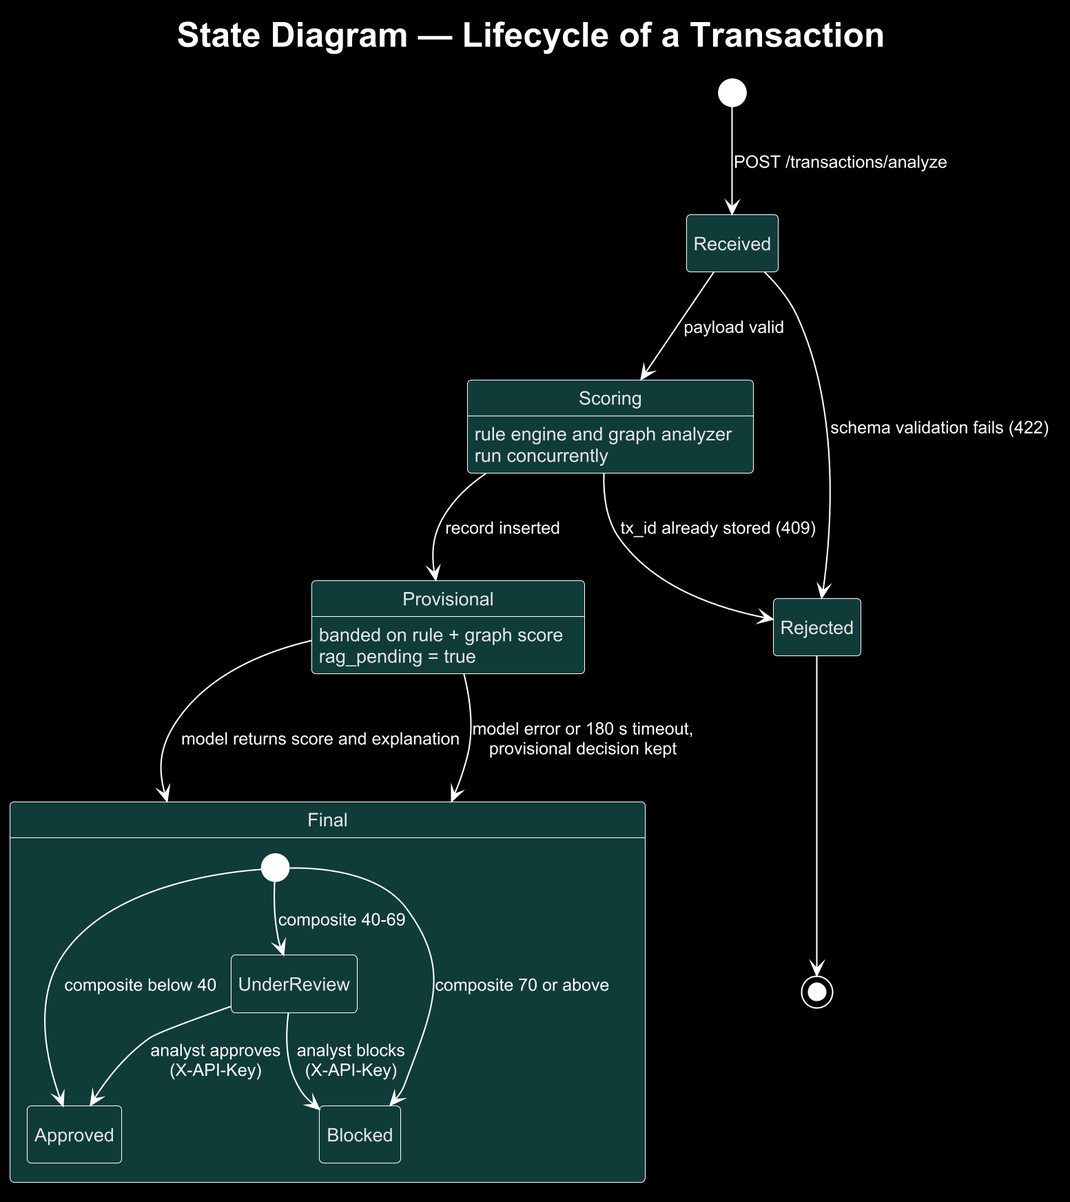
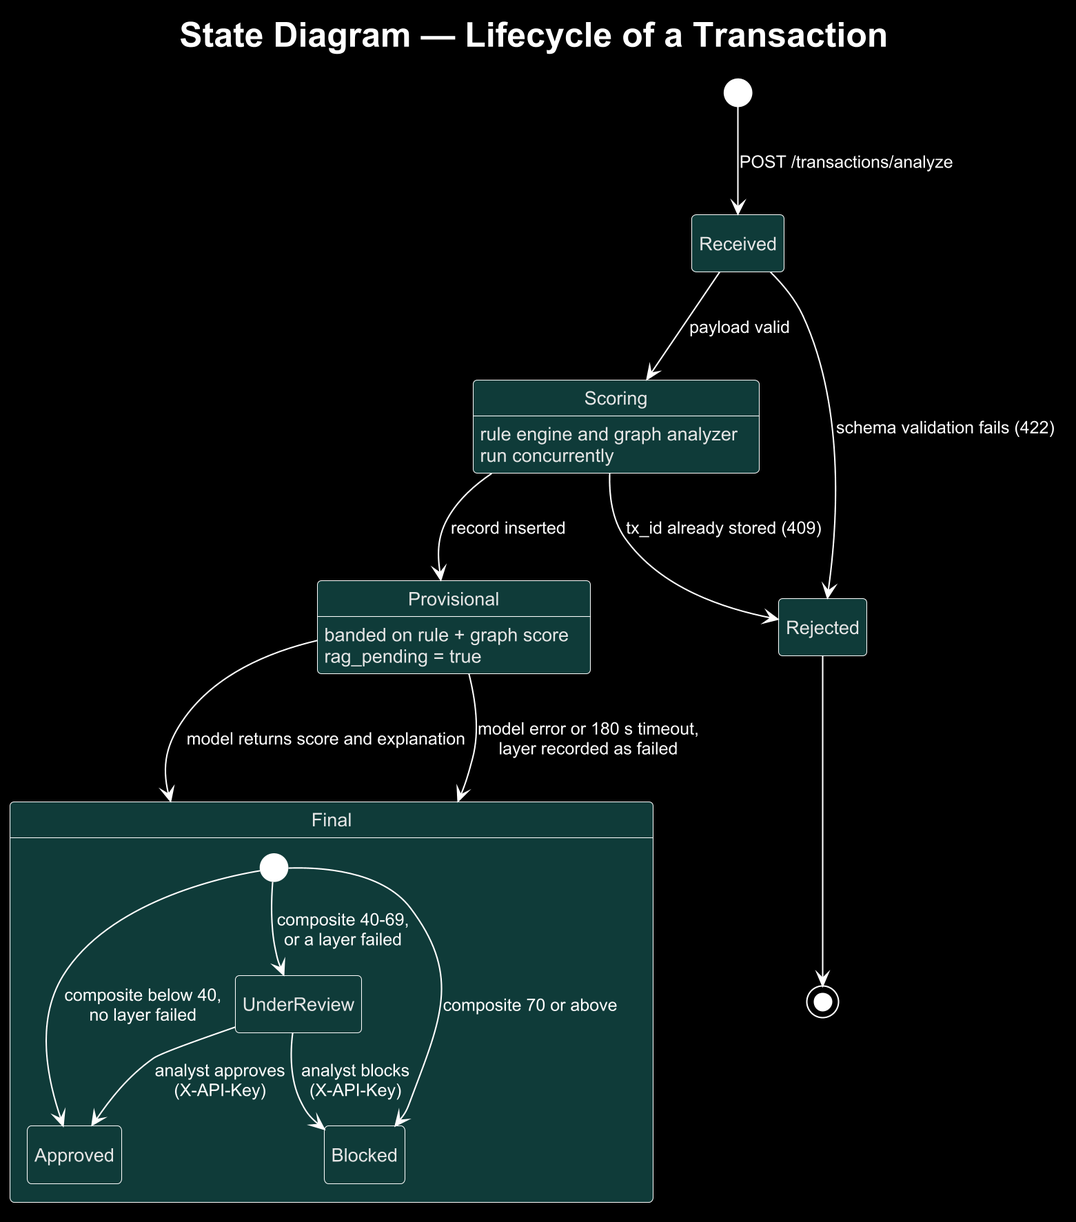
Document layer failure handling and component restart in the SRS and report
SRS: FR-33 (a failed layer is named, recorded and sends an approval to
review), FR-34 (component status and restart), FR-35 (dashboard failure
panel); FR-9 and FR-29, the reliability requirement and the security
requirement updated to match. The last functional-requirements table
grew past a page, so it is split into accounts/graph/reporting/operations
and dashboard/security/resilience.

Report: the decision rule after Equation 3.4, Algorithm 1's timeout
branch, the security, assumption, module and integration sections, the
safety and deployment-risk entries, the error analysis and the test
appendix. Figure 4.4 recaptured with all 16 routes.

The sequence, state, activity and component diagrams no longer say a
model timeout keeps the provisional decision.

diff --git a/docs/build_report.py b/docs/build_report.py
@@ -680,7 +680,7 @@ bullets([
     "time from 260 ms to about 20 ms.",
     "An evaluation harness that replays a labelled dataset through the live API, sweeps the "
     "decision thresholds and reports precision at a realistic fraud prevalence.",
-    "An analyst dashboard and a one-command local stack, with 41 automated tests run in "
+    "An analyst dashboard and a one-command local stack, with 53 automated tests run in "
     "continuous integration.",
 ])
 section("1.8 Report Organization")
@@ -848,14 +848,18 @@ output: provisional decision, returned to the caller
 1  sender, receiver <- load_profile(tx.sender), load_profile(tx.receiver)
 2  (R, rule_flags), (G, graph_flags) <- in parallel:
        rule_engine(tx, sender, receiver), graph_analyzer(tx)
-3  S <- min(R + G, 100);  decision <- band(S)
+3  S <- min(R + G, 100);  decision <- band(S, failed layers)
 4  insert record(tx, S, decision, rag_pending = true)     # 409 if tx_id exists
 5  schedule background (4 at a time, 180 s limit):
 6      (L, text) <- rag_pipeline(tx, sender, rule_flags + graph_flags)
-7      S <- min(R + G + L, 100);  decision <- band(S)
+           on error or timeout: L <- 0, language model marked failed
+7      S <- min(R + G + L, 100);  decision <- band(S, failed layers)
 8      if flags fired and text names none of them: text <- flag list only
-9      update record(S, decision, text, rag_pending = false)
-10 return decision, S, flags""")
+9      update record(S, decision, text, failed layers, rag_pending = false)
+10 return decision, S, flags
+
+band(S, F): APPROVE if S < 40, REVIEW if S < 70, else BLOCK;
+            an APPROVE becomes REVIEW when any layer in F failed""")
 para("The graph layer's cycle check (Algorithm 2) looks for a path of two to four transfers "
      "that leaves the sender and returns to it, restricted to the last 72 hours and to hops in "
      "time order, and stops at the first match. Figure 3.7 decomposes the rule engine's "
@@ -878,6 +882,9 @@ eq("G = min( Σ w_j , 30 ),     L ∈ [0, 30]", "3.2")
 eq("S = min( R + G + L , 100 )", "3.3")
 para("The decision band uses a review threshold τ_r = 40 and a block threshold τ_b = 70:")
 eq("D(S) = APPROVE if S < τ_r;   REVIEW if τ_r ≤ S < τ_b;   BLOCK if S ≥ τ_b", "3.4")
+para("If a layer could not run it contributes no points, and a D(S) of APPROVE is raised to "
+     "REVIEW: a layer that never looked at the transaction is missing evidence, not evidence "
+     "that it is safe. A BLOCK reached by the layers that did run is kept.")
 para("For account a with monthly average μ_a, the velocity count n_a is the number of its "
      "transactions in the last 600 seconds, and the two account-level rules fire when")
 eq("n_a > 5      and      x > 3 μ_a  (with μ_a > 0)", "3.5")
@@ -916,8 +923,8 @@ para("The 40/30/30 split follows the certainty of each layer's evidence. The rul
 section("3.8 Security/Privacy Considerations")
 bullets([
     "The three routes that change stored state — the decision override, the blacklist toggle "
-    "and fraud-label propagation — require a shared key in the X-API-Key header, compared in "
-    "constant time.",
+    "and fraud-label propagation — and the component status and restart routes require a "
+    "shared key in the X-API-Key header, compared in constant time.",
     "Browser access is restricted to configured origins, and every client is rate-limited.",
     "Every request is validated against a schema; the merchant category must be one of 11 "
     "fixed values and the free-text fields are length-capped, so submitted text cannot be "
@@ -931,8 +938,9 @@ bullets([
 ])
 section("3.9 Assumptions")
 bullets([
-    "The four data stores are reachable; if one is not, the affected layer scores zero and "
-    "the others still decide.",
+    "The four data stores are reachable. If one is not, the affected layer is recorded as "
+    "failed, the others still score, and a transaction that would have been approved is held "
+    "for review.",
     "An account with no stored profile is treated as elevated risk rather than as safe.",
     "The synthetic dataset is adequate for comparing configurations with one another, not "
     "for predicting production accuracy.",
@@ -1029,24 +1037,30 @@ sub("Rule engine")
 para("The rule engine is one asynchronous function that receives the transaction and both "
      "profiles. It returns the maximum score immediately for a blacklisted party; otherwise it "
      "records the transaction in a Redis sorted set keyed by account, counts the entries "
-     "within the last ten minutes, and applies the amount, merchant and risk-tier rules.")
+     "within the last ten minutes, and applies the amount, merchant and risk-tier rules. If "
+     "Redis cannot be reached, the layer is marked as failed with RULE_ENGINE_ERROR and the "
+     "error, rather than failing the whole request.")
 sub("Graph analyzer")
 para("The graph analyzer first merges the transaction, its accounts, device and address into "
      "Neo4j, then runs four checks in one session: shared device, circular flow with the mule "
      "sub-check, shared address, and receiver proximity to a known fraud account through "
-     "connection edges. Any failure returns a zero score with the flag GRAPH_ANALYZER_ERROR "
-     "instead of failing the request.")
+     "connection edges. A failure marks the layer as failed with GRAPH_ANALYZER_ERROR and the "
+     "error, instead of failing the request.")
 sub("Retrieval-augmented pipeline")
 para("The pipeline retrieves the three most similar of 58 pattern documents from ChromaDB and "
      "sends the transaction, the retrieved patterns and the flags already raised by the other "
      "two layers to llama3 at temperature zero. It returns a score capped at 30 and an "
-     "explanation. If the model cannot be reached it returns zero with the flag "
-     "RAG_PIPELINE_ERROR.")
+     "explanation. If the model cannot be reached, fails or times out, the layer is marked as "
+     "failed with RAG_PIPELINE_ERROR.")
 sub("Decision engine")
 para("The decision engine sums the three scores, caps the total at 100, applies the bands and "
      "prefixes the explanation with the list of triggered signals. Unless the language-model "
      "result is still pending, it checks that the explanation names at least one triggered "
      "flag and otherwise shows the flag list alone.")
+para("When a layer is marked as failed, the engine names it in the explanation, records it "
+     "with the transaction, and raises an APPROVE to REVIEW. Only flags from layers that ran "
+     "count as evidence for the explanation check, and a failed language model contributes no "
+     "text.")
 section("4.7 Algorithm/Model Implementation")
 para("Two excerpts show how the algorithms of Section 3.5 are implemented. The cycle query "
      "prunes hops by an ISO 8601 cutoff during expansion and stops at the first match, because "
@@ -1087,11 +1101,19 @@ para("The layers are integrated in the analyse route. The rule engine and graph 
      "under asyncio.gather, so the response waits for the slower of the two rather than their "
      "sum. The language-model layer is scheduled with FastAPI background tasks after the "
      "record is inserted; a semaphore allows four such tasks at once and each has a 180-second "
-     "timeout, after which only the pending flag is cleared. The unique index on the "
+     "timeout, after which the language-model layer is recorded as failed and the decision is "
+     "banded again. The unique index on the "
      "transaction identifier turns a retried submission into a 409 response rather than a "
      "duplicate record. The dashboard polls the stored record every three seconds until the "
      "pending flag clears. The API documents itself through its OpenAPI page (Figure 4.4).")
-figure(os.path.join(ASSETS, "api-docs.png"), "Interactive API documentation — 14 routes")
+para("Two component routes support recovery. One reports whether Redis, Neo4j, ChromaDB and "
+     "Ollama are answering; the other restarts a single scoring component by dropping its client "
+     "and checking its dependency again. Both require the API key. They do not start or stop "
+     "the database processes, which would mean running shell commands from a web request. A "
+     "failed layer appears on the dashboard as a highlighted panel with its error and a button "
+     "that calls the restart route; the transaction stays in review, and later transactions use "
+     "the restarted component.")
+figure(os.path.join(ASSETS, "api-docs.png"), "Interactive API documentation — 16 routes")
 para("For deployment the stack is defined in Docker Compose as five containers, with the "
      "language model on the host (Figure 4.5).")
 figure("08-deployment.png", "Deployment diagram — Docker Compose")
@@ -1301,8 +1323,8 @@ bullets([
     "The rule and graph layers need no training data, and a new fraud pattern is added to the "
     "knowledge base as a written document.",
     "The language model cannot delay the decision or block a transaction on its own.",
-    "Each layer degrades independently: a failed data store or model lowers that layer's score "
-    "to zero with a stated reason.",
+    "A failed data store or model is recorded against its layer, holds the transaction for "
+    "review, and can be restarted from the dashboard once the service is back.",
     "The whole stack runs locally on one machine without a graphics processor.",
 ])
 section("6.4 Limitations")
@@ -1356,6 +1378,10 @@ bullets([
     "Unbounded background work: 208 simultaneous model calls stopped the API; now capped at four.",
     "A hung model call held its slot forever and left records pending; each call now times out "
     "after 180 seconds.",
+    "A timed-out model call cleared only the pending flag and left the placeholder text on four "
+    "records; it is now recorded as a failed layer and the decision is banded again.",
+    "The rule engine had no error handling, so a Redis outage failed the whole request; it now "
+    "marks its layer as failed.",
     "The evaluation harness measured the response before the language-model layer finished; "
     "it now waits for it.",
 ])
@@ -1363,7 +1389,7 @@ bullets([
 # ───────────────────────── CHAPTER 7 ─────────────────────────
 chapter("Security, Ethical and Practical Considerations")
 section("7.1 Security")
-para("The controls in place are those in Section 3.8: a shared key on the three routes that "
+para("The controls in place are those in Section 3.8: a shared key on the component routes and the three routes that "
      "change state, compared in constant time; origin restriction; per-client rate limits; "
      "schema validation with a fixed merchant vocabulary and length caps that limit prompt "
      "injection; and parameterised database queries. Four gaps remain. There is no per-user "
@@ -1406,19 +1432,20 @@ para("The RBI's 2024 Master Directions on fraud risk management set expectations
      "prototype has not been assessed for compliance with either.")
 section("7.6 Safety and Reliability")
 bullets([
-    "A failed layer contributes zero with a stated reason and never approves a transaction "
-    "silently.",
+    "A failed layer is named in the explanation and recorded with the transaction, and a "
+    "transaction it would have approved is held for review.",
+    "A failed component can be restarted from the dashboard once its service is back.",
     "Background model calls are bounded in number and time, so a hung call cannot stall later "
     "transactions.",
     "A retried submission returns a conflict response instead of creating a duplicate decision.",
     "Scores are deterministic for identical input.",
-    "41 automated tests, which need no database or network, run on every push.",
+    "53 automated tests, which need no database or network, run on every push.",
 ])
 section("7.7 Deployment Risks")
 table("Deployment risks",
       ["Risk", "Effect", "Mitigation or next step"],
       [["Synthetic-only validation", "Real precision unknown", "Evaluate on a public dataset"],
-       ["Language-model outage or slowness", "No explanations", "Timeout; decision stands"],
+       ["Language-model outage or slowness", "No explanations", "Timeout; layer failed, held for review"],
        ["Graph growth", "Slower queries, more cycles", "Retention or archival policy"],
        ["Shared API key", "No attribution of overrides", "Per-user authentication"],
        ["Default credentials", "Unauthorised database access", "Set secrets per environment"],
@@ -1590,13 +1617,19 @@ document  Mule fee skimming: funds pass through a chain of accounts with
     code_block(block)
 
 section("Appendix B — Automated Test Suite")
-para("The 41 tests run without a database or network connection (pytest tests/ -q) and are "
+para("The 53 tests run without a database or network connection (pytest tests/ -q) and are "
      "grouped below by what they protect.")
 for heading, items in [
-    ("tests/test_fraud.py — scoring layers, decision engine and security (20 tests)", [
+    ("tests/test_fraud.py — scoring layers, decision engine, failures and security (32 tests)", [
         "Rule engine: blacklist returns the maximum score; amount-anomaly and velocity flags; a "
         "clean transaction scores zero.",
-        "Graph analyzer: a Neo4j failure degrades to a zero score with GRAPH_ANALYZER_ERROR.",
+        "Layer failures: Redis down marks the rule engine as failed and Neo4j down the graph "
+        "analyzer; a failed layer raises an approval to review but keeps an earned block; a "
+        "failed model contributes no text; error-flag words are not evidence; two failures are "
+        "named in one sentence; a background timeout is recorded; multi-line errors are "
+        "flattened; an exception with no message is still named.",
+        "Component restart: an unknown component is rejected; restart resets the client and "
+        "reports the dependency's status.",
         "API key: a wrong or missing key is rejected; the configured key is accepted.",
         "RAG pipeline: the prompt carries the rule and graph flags, renders “(none)” when "
         "there are none, and returns a score and explanation on success and on failure.",

diff --git a/docs/build_srs.py b/docs/build_srs.py
@@ -617,7 +617,8 @@ for c in ["The system shall run in full on a single machine without a graphics p
     bullet(c)
 section("2.6 Assumptions and Dependencies")
 for a in ["The four data stores are reachable. If a store is unavailable the affected "
-          "layer degrades rather than failing the request.",
+          "layer is recorded as failed rather than failing the request, and a "
+          "transaction it would otherwise have approved is held for review.",
           "A local language model or an external service key is available. Without "
           "either, the rule and graph layers still produce a decision and only the "
           "written explanation is lost.",
@@ -637,9 +638,9 @@ for a in ["The four data stores are reachable. If a store is unavailable the aff
 chapter("System Requirements")
 section("3.1 Functional Requirements")
 para("Each requirement is traceable to the module that implements it. The requirements "
-     "are given in three tables — request handling and scoring, decision and "
-     "persistence, then the surrounding accounts, graph, reporting and operations "
-     "services — sized so that none has to run across a page break.")
+     "are given in four tables — request handling and scoring; decision and "
+     "persistence; accounts, graph, reporting and operations; then the dashboard, "
+     "security and resilience — sized so that none has to run across a page break.")
 table("Functional requirements — request handling and scoring",
       ["ID", "Requirement", "Module"],
       [["FR-1", "Accept a transaction over HTTP POST carrying identifier, sender, receiver, amount, currency and optional merchant, device, address and note fields.", "routes/transactions"],
@@ -650,7 +651,7 @@ table("Functional requirements — request handling and scoring",
        ["FR-6", "Count transactions for an account within an exact ten-minute rolling window and flag more than five.", "core/redis_client"],
        ["FR-7", "Score from 0 to 30 by detecting shared devices, circular flows within four hops, fee-skimming chains and proximity to a known fraud cluster.", "services/graph_analyzer"],
        ["FR-8", "Record the transaction, its accounts, device and address in the graph so later transactions can be evaluated against it.", "services/graph_analyzer"],
-       ["FR-9", "Retrieve similar fraud patterns and obtain a score from 0 to 30 with an explanation from the language model, degrading to a zero score with a stated reason when no language model is reachable.", "services/rag_pipeline"]],
+       ["FR-9", "Retrieve similar fraud patterns and obtain a score from 0 to 30 with an explanation from the language model, marking the layer as failed when no language model is reachable or the assessment times out.", "services/rag_pipeline"]],
       widths=[0.5, 4.2, 1.3], size=9)
 table("Functional requirements — decision and persistence",
       ["ID", "Requirement", "Module"],
@@ -675,12 +676,18 @@ table("Functional requirements — accounts, graph, reporting and operations",
        ["FR-24", "Derive decisions again across candidate thresholds and report no block threshold when none is reachable.", "scripts/evaluate"],
        ["FR-25", "Limit each client to 120 requests per minute overall and 30 on the analysis endpoint.", "core/rate_limit"],
        ["FR-26", "Expose a health endpoint reporting service status.", "routes/health"],
-       ["FR-27", "Provide repeatable seed scripts for account profiles and a synthetic fraud graph.", "scripts/seed"],
-       ["FR-28", "Display metrics, decision mix, score distribution, accuracy and flagged transactions with detail and override.", "dashboard"],
-       ["FR-29", "Require a shared key on the routes that override a decision, change blacklist status or propagate fraud labels.", "core/security"],
+       ["FR-27", "Provide repeatable seed scripts for account profiles and a synthetic fraud graph.", "scripts/seed"]],
+      widths=[0.5, 4.2, 1.3], size=9)
+table("Functional requirements — dashboard, security and resilience",
+      ["ID", "Requirement", "Module"],
+      [["FR-28", "Display metrics, decision mix, score distribution, accuracy and flagged transactions with detail and override.", "dashboard"],
+       ["FR-29", "Require a shared key on the routes that override a decision, change blacklist status, propagate fraud labels, or report or restart a scoring component.", "core/security"],
        ["FR-30", "Restrict the graph layer's circular-flow detection to hops occurring within a configured window and in chronological order.", "services/graph_analyzer"],
        ["FR-31", "Withhold a written explanation that does not reference any triggered signal, and show the signal list alone in its place.", "services/decision_engine"],
-       ["FR-32", "Show an outstanding language-model assessment on the dashboard and replace it with the final score when it arrives.", "dashboard"]],
+       ["FR-32", "Show an outstanding language-model assessment on the dashboard and replace it with the final score when it arrives.", "dashboard"],
+       ["FR-33", "Mark a scoring layer that cannot run as failed, name it in the explanation, record it with the transaction, and send a transaction that would otherwise be approved to review.", "services/decision_engine"],
+       ["FR-34", "Report whether each scoring component's dependency is answering, and let an authorised user restart one component.", "routes/components"],
+       ["FR-35", "Show a failed layer on the dashboard with its error and a control that restarts that component.", "dashboard"]],
       widths=[0.5, 4.2, 1.3], size=9)
 section("3.2 Non-Functional Requirements")
 para("Non-functional requirements are grouped below under performance, reliability, "
@@ -720,7 +727,8 @@ for n in ["The deterministic layers shall complete within 500 milliseconds per t
 para("Reliability and maintainability.")
 for n in ["The service shall hold no state between requests, so that an instance can be "
           "restarted without loss of data.",
-          "An unavailable component shall never cause a transaction to be approved silently.",
+          "An unavailable component shall never cause a transaction to be approved silently: "
+          "a transaction scored while a layer could not run shall be held for review.",
           "The composite score shall be clamped so that no combination exceeds the range.",
           "Every decision shall be persisted with its explanation for audit."]:
     bullet(n)
@@ -729,11 +737,11 @@ for n in ["The automated test suite shall run without any database or network ac
           "The stack shall start with a single command on Linux, macOS or Windows."]:
     bullet(n)
 table("Software quality attributes", ["Attribute", "How it is achieved"],
-      [["Reliability", "The pipeline degrades one component at a time; a duplicate "
+      [["Reliability", "A failed layer is recorded and holds the transaction for review; a duplicate "
                        "submission returns a defined conflict response."],
        ["Maintainability", "Each layer is a single function with one input and one "
                            "output type, so a layer can be replaced independently."],
-       ["Testability", "Forty-one automated tests run with no database or network."],
+       ["Testability", "Fifty-three automated tests run with no database or network."],
        ["Portability", "The entire stack is defined in one container composition file."],
        ["Usability", "Every decision is accompanied by a written explanation."],
        ["Accuracy", f"Precision {FLAGGED['precision']:.3f}, recall {FLAGGED['recall']:.3f}, "
@@ -762,7 +770,7 @@ for s in ["Credentials shall be supplied through environment variables and never
           "Account identifiers are the only data shared between stores; no payment "
           "instrument data is persisted.",
           "The routes that alter a stored decision, change an account's blacklist "
-          "status or rewrite the graph's fraud labels shall require a shared key "
+          "status, rewrite the graph's fraud labels, or report or restart a scoring component shall require a shared key "
           "supplied in a request header, compared in constant time.",
           "Browser access shall be restricted to configured origins rather than "
           "permitted from any origin.",
@@ -818,7 +826,9 @@ para("The component diagram shows the parts of the FastAPI application and the s
      "and services each one depends on. The routers call the rule engine, the graph "
      "analyzer and the decision engine directly, and hand the language-model layer to a "
      "background task limited to four concurrent assessments with a 180-second timeout. "
-     "The API-key guard applies only to the three routes that change stored state: the "
+     "The component routes report whether each layer's dependency is answering and restart "
+     "one layer on request. The API-key guard applies to those routes and to the three "
+     "that change stored data: the "
      "decision override, the blacklist toggle and fraud label propagation.")
 figure("07-component.png", "Component diagram")
 section("4.6 Deployment Diagram")
@@ -840,7 +850,8 @@ para("The activity diagram follows one transaction across the participants. The 
      "and graph layers score in parallel and set a provisional decision, the record is "
      "stored and the response returned, and the language-model layer then runs in the "
      "background. If it answers within the time limit its score and explanation are "
-     "added and the decision is banded again; if not, the provisional decision stands. "
+     "added and the decision is banded again; if not, the layer is recorded as failed and a "
+     "transaction that would have been approved is held for review. "
      "An analyst can approve or block a transaction held for review.")
 figure("03-activity.png", "Activity diagram — transaction analysis workflow")
 section("5.3 Sequence Diagram")
@@ -860,7 +871,8 @@ para("The state diagram gives the lifecycle of a transaction record. A record is
      "only after scoring, so a request rejected at validation or as a duplicate never "
      "reaches the store. Every stored record passes through a provisional state while "
      "its language-model assessment is outstanding, and if that assessment fails or "
-     "times out the provisional decision becomes the final one. The dashboard offers the "
+     "times out the layer is recorded as failed and the decision is banded again, with an "
+     "approval raised to review. The dashboard offers the "
      "approve and block actions only on a transaction under review.")
 figure("06-state.png", "State diagram — lifecycle of a transaction")
 
